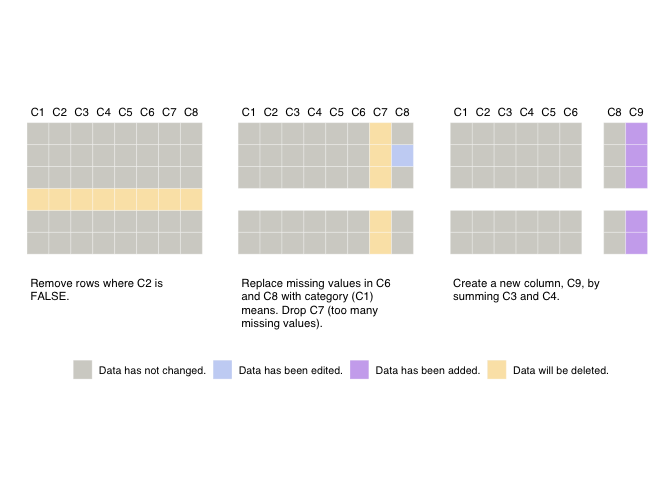
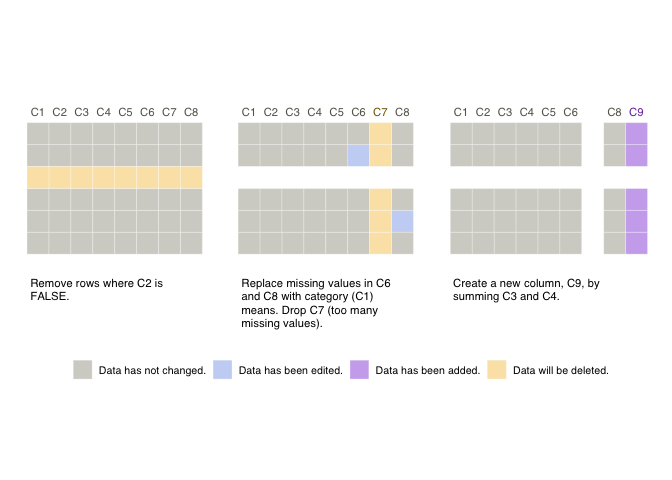
edit example and debug missing colours

diff --git a/README.md b/README.md
@@ -1,4 +1,4 @@
-Creating Smallset Timelines with `smallsets`
+Smallset Timelines with `smallsets`
 ================
 
 ## Introduction
@@ -12,17 +12,16 @@ min](https://www.youtube.com/watch?v=_fpn02h3IUo)) and long ([15
 min](https://www.youtube.com/watch?v=I_ksOv6rj1Y)) YouTube video provide
 an introduction to the project.
 
-**Do you use R or Python to preprocess datasets for analyses?** The
-Smallset Timeline (or Timeline) is a practical visualisation to document
-and communicate your data preprocessing decisions. `smallsets` is the R
-package for creating a Smallset Timeline for your R or Python
-preprocessing script.
+**Do you use R or Python to preprocess datasets for analyses?**
+`smallsets` is an R package that transforms your R or Python
+preprocessing script into a Smallset Timeline, so that you can document
+and share your preprocessing decisions in a practical manner.
 
 *If you have questions about using `smallsets` or would like help
 building a Smallset Timeline, please email Lydia at
 <Lydia.Lucchesi@anu.edu.au>.*
 
-## Installation
+## Installation in R
 
 ``` r
 remotes::install_github(repo = "lydialucchesi/smallsets")
@@ -30,15 +29,19 @@ remotes::install_github(repo = "lydialucchesi/smallsets")
 
 ## Quick start example
 
-**Copy, paste, and run the following snippet of code to create your
-first Smallset Timeline!**
+<span style="color:#FF6633">**Copy, paste, and run the following snippet
+of code to create your first Smallset Timeline!**</span>
 
-*Check out the following section to see how snapshots and captions are
-added by “commenting” the preprocessing script.*
+*Check out the following section to see how to choose snapshot points
+and provide captions with structured comments in the preprocessing
+script.*
+
+*There are many built-in options to customise the appearance of your
+Smallset Timeline. See `?Smallset_Timeline` for details.*
 
 ``` r
 library(smallsets)
-set.seed(107)
+set.seed(145)
 
 data(mydata)
 
@@ -48,7 +51,8 @@ Smallset_Timeline(
   )
 ```
 
-    ## [1] "3 snapshots taken"
+    ## [1] "Selected Smallset rows: 2, 47, 54, 64, 75, 92"
+    ## [1] "Number of snapshots: 3"
     ## [1] "Alt text available in figureAltText.txt"
 
 ![](README_files/figure-gfm/unnamed-chunk-2-1.png)<!-- -->
@@ -61,15 +65,15 @@ series of structured comments were added to the preprocessing script,
 informing `smallsets` what to do.
 
 -   `# start smallset mydata` - start tracking code and take the first
-    data snapshot
+    data snapshot, where “mydata” is the name of your data object
 
 -   `# snap mydata` - take a data snapshot after the next line of code
 
 -   `# end smallset mydata` - stop tracking code and take the last data
     snapshot
 
--   snapshot captions are added between caption brackets:
-    `caption[...]caption`
+-   snapshot captions are added between caption brackets
+    `caption[...]caption` at the end of structured comments
 
 This script is included in the package and can be viewed on GitHub here.
 
@@ -78,21 +82,11 @@ This script is included in the package and can be viewed on GitHub here.
 # is FALSE.]caption
 mydata <- mydata[mydata$C2 == TRUE,]
 
-mC6 <- tapply(mydata$C6, mydata$C1, function(x)
-  mean(x, na.rm = TRUE))
-C6sub <- as.factor(mydata$C1)
-levels(C6sub) <- mC6
-mydata$C6[is.na(mydata$C6)] <- round(as.numeric(levels(C6sub))[C6sub][is.na(mydata$C6)], 2)
-
-mC8 <- tapply(mydata$C8, mydata$C1, function(x)
-  mean(x, na.rm = TRUE))
-C8sub <- as.factor(mydata$C1)
-levels(C8sub) <- mC8
+mydata$C6[is.na(mydata$C6)] <- mean(mydata$C6, na.rm = TRUE)
 # snap mydata caption[Replace missing values in C6 and 
-# C8 with category (C1) means. Drop C7 (too many missing 
-# values).]caption
-mydata$C8[is.na(mydata$C8)] <- round(as.numeric(levels(C8sub))[C8sub][is.na(mydata$C8)], 2)
-
+# C8 with mean values. Drop C7 because there are too many 
+# missing values.]caption
+mydata$C8[is.na(mydata$C8)] <- mean(mydata$C8, na.rm = TRUE)
 mydata$C7 <- NULL
 
 mydata$C9 <- mydata$C3 + mydata$C4
